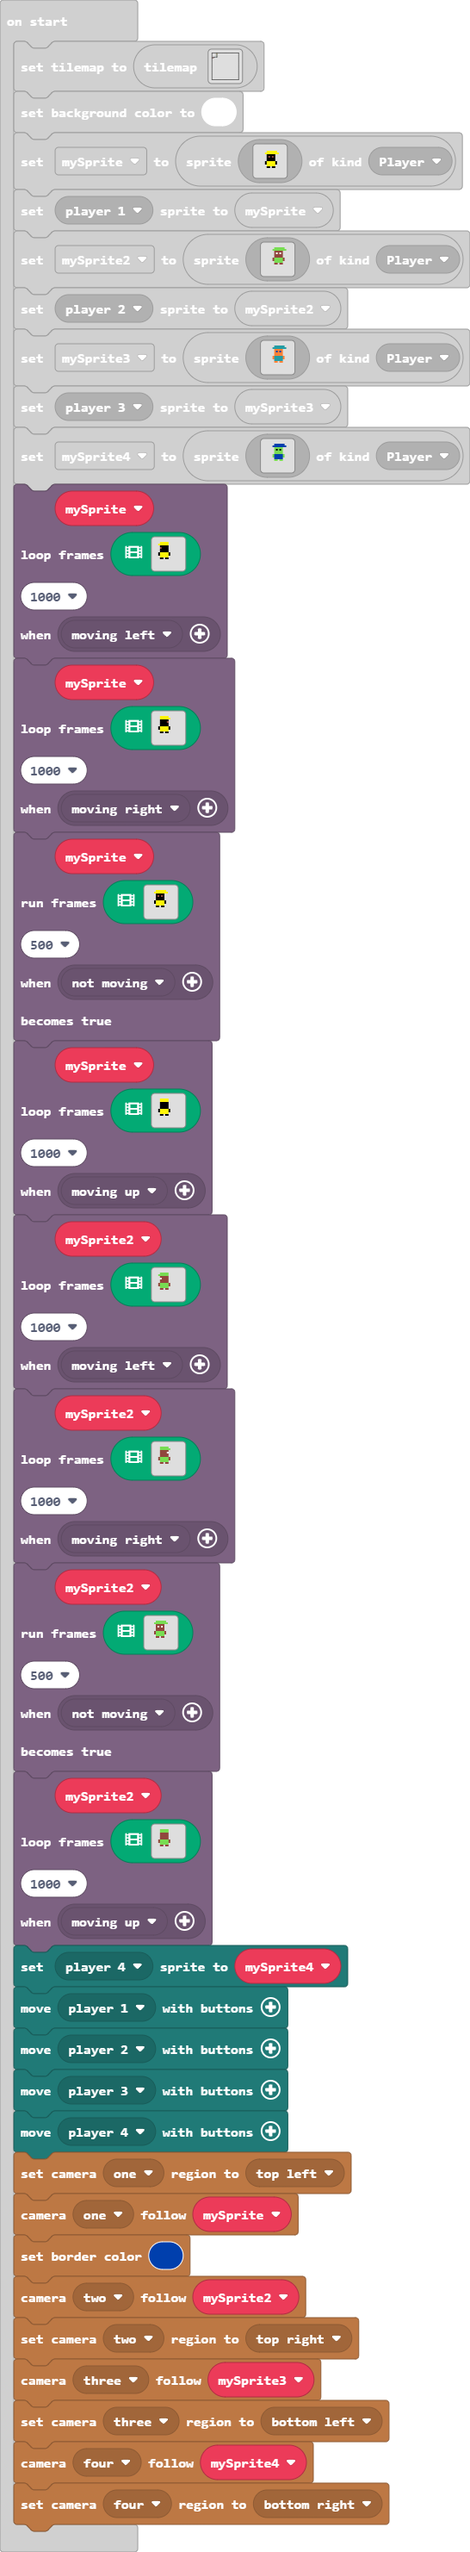
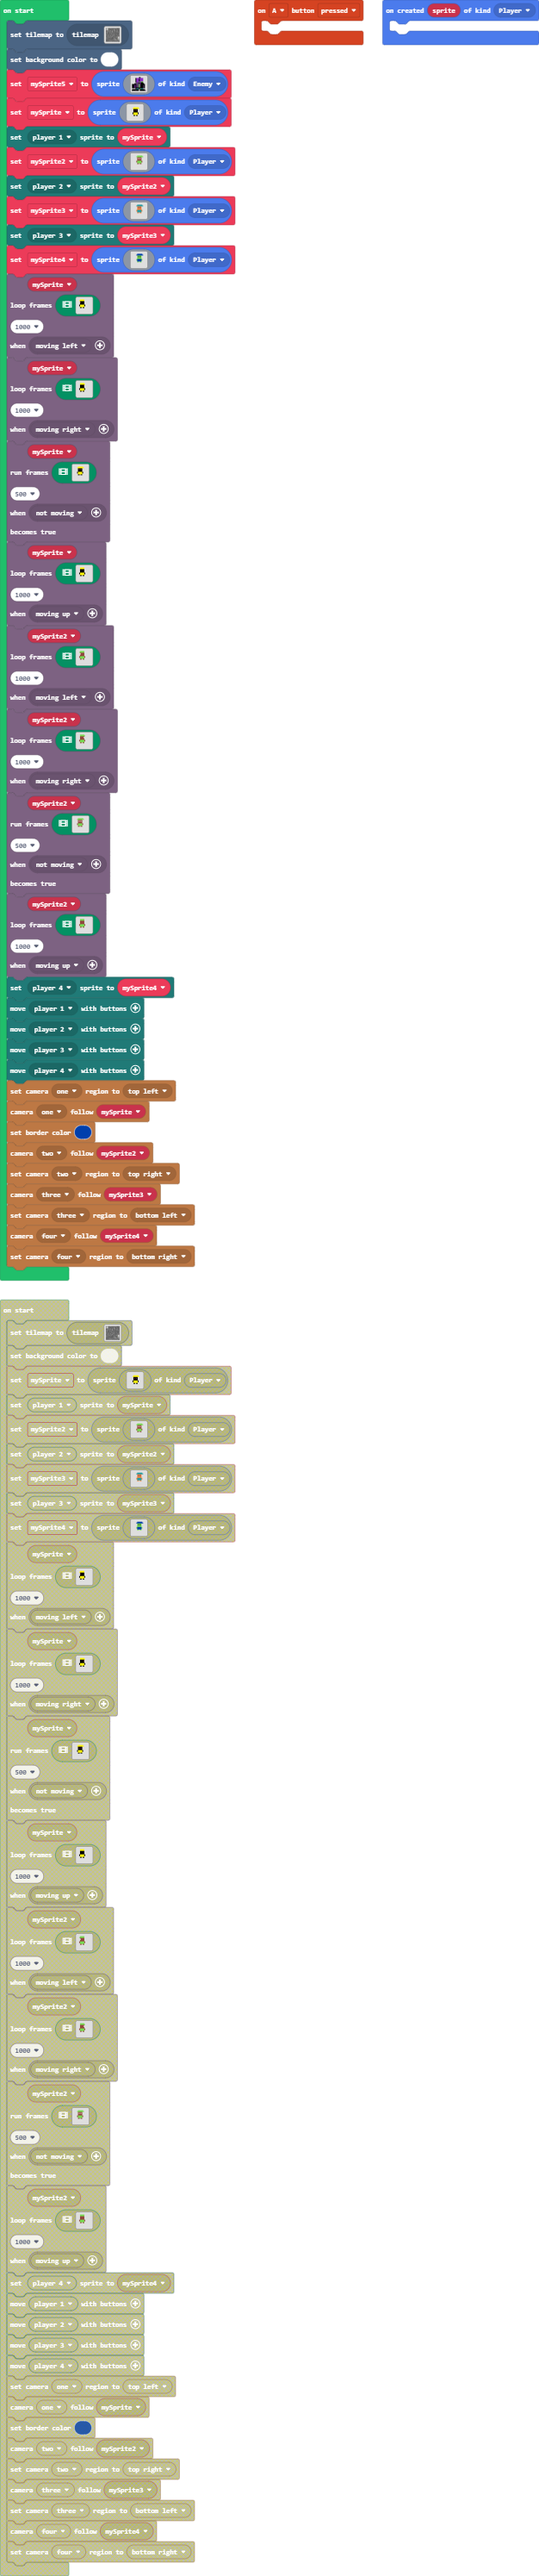
Update main.blocks, main.ts

diff --git a/main.ts b/main.ts
@@ -3,8 +3,32 @@ enum ActionKind {
     Idle,
     Jumping
 }
+controller.A.onEvent(ControllerButtonEvent.Pressed, function () {
+	
+})
+sprites.onCreated(SpriteKind.Player, function (sprite) {
+	
+})
 tiles.setCurrentTilemap(tilemap`level1`)
 scene.setBackgroundColor(1)
+let mySprite5 = sprites.create(img`
+    . . . . . . . . f f . . . . . . 
+    . . . . f a a a a a a a a . . . 
+    . . . . f a a a f a a a a . . . 
+    . . . . f a a a f a a a a . . . 
+    . . . . f a a a f a a a a . . . 
+    . . . . f a a a 7 a 7 7 7 . . . 
+    . . . . b c c c f a f f f . . . 
+    . . . f c c c c f a f f f f . . 
+    f f f f f c c c 7 c f f f f f . 
+    f f f a f c c c 7 c f f f c f . 
+    f f f a f c c c 7 c f f f c f . 
+    f f f a f c c c 7 c f f f c f . 
+    f f f c f f f f f f f f f c f . 
+    . . . . f 6 6 6 f 7 6 6 6 . . . 
+    f f f f c f f f 1 f f f f f f . 
+    f f f f f f f f 1 f f f f f f c 
+    `, SpriteKind.Enemy)
 let mySprite = sprites.create(img`
     . . . . . . . . . . . . . . . . 
     . . . . . . . . . . . . . . . . 
